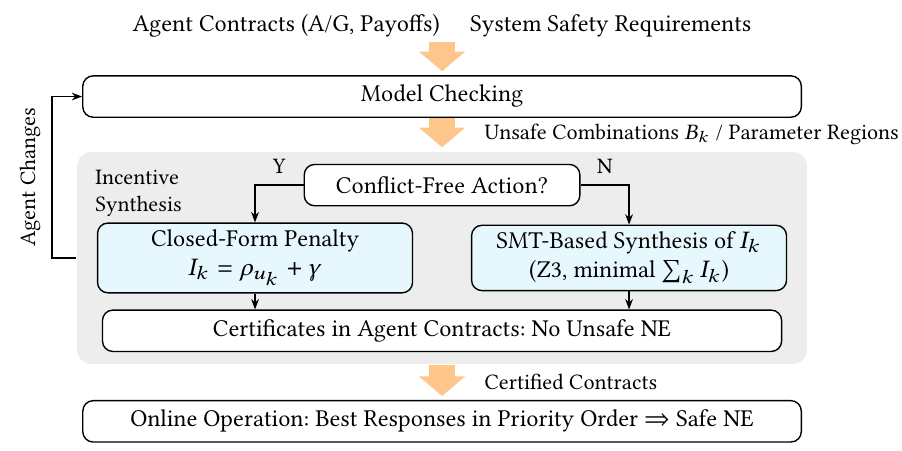
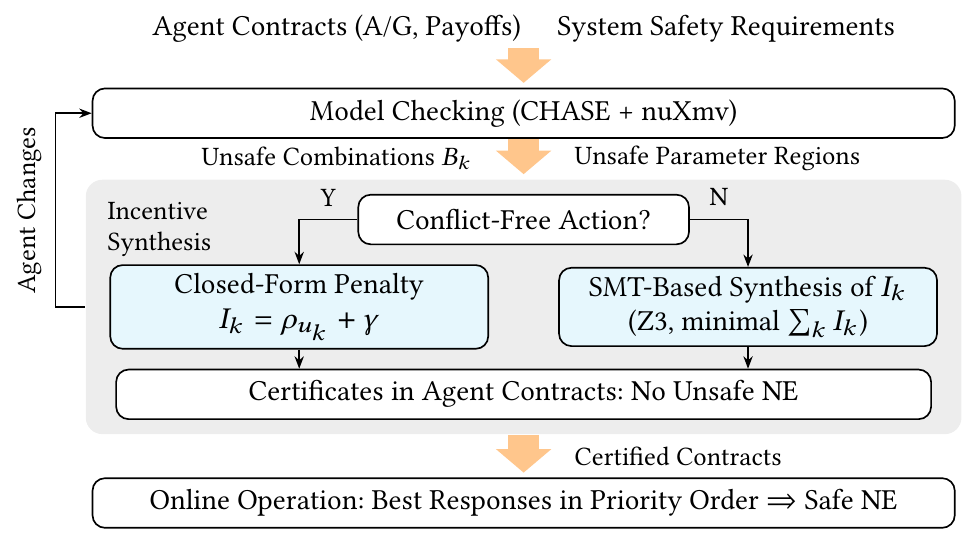
Current abstract and flowchart; remove the Min TTR row

Changed region(s): [[0.0621, 0.031, 1.0, 0.9933], [0.0, 0.2173, 0.0621, 0.5588]]

diff --git a/index.html b/index.html
@@ -83,14 +83,15 @@
             admissible behaviours a self-interested agent will choose when it interacts with other agents.
             We propose <em>incentive-compatible A/G contracts</em>, which extend A/G contracts in linear
             temporal logic (LTL) with a payoff for each agent and an enforceable penalty for unsafe joint
-            behaviour. Decisions are finitely many controllers, such as maneuvers or entry times on a fine time
-            grid. Model checking identifies the unsafe combinations of decisions, parameter synthesis turns them
-            into unsafe conditions that the agents evaluate online, and SMT solving computes the penalties
-            together with <em>certificates</em> that exclude each unsafe combination from the Nash equilibria.
-            Each certificate is attached to the contract of an agent that gains at least a fixed margin by
-            changing its own decision. The certificates guarantee that every Nash equilibrium of the composed
-            system is safe, and they remain valid when an agent is replaced by one whose contract refines its
-            own. Agents can also be added and removed while the existing certificates are reused.
+            behaviour. Model checking identifies the unsafe combinations of decisions, and parameter synthesis
+            generates the unsafe parameter regions that the agents evaluate online. The penalties follow from a
+            closed form when an agent has a conflict-free action and from SMT solving otherwise, together with
+            <em>certificates</em> that exclude each unsafe combination from the Nash equilibria. Each certificate
+            is attached to the contract of an agent that gains at least a fixed margin by changing its own
+            decision. If every unsafe combination has a certificate, every Nash equilibrium of the composed system
+            is safe, and the certificates remain valid when an agent is replaced by one whose contract refines its
+            own or when agents are added or removed. We evaluate the approach on highway on-ramp merging and an
+            unmanned aerial vehicle (UAV) corridor.
           </p>
         </div>
       </div>
@@ -166,14 +167,13 @@
     <table class="res">
       <tr><th rowspan="2">100 scenarios &times; 300 s</th><th colspan="4">without safety filter</th><th colspan="2">with the filter of Low et al.</th></tr>
       <tr><th>runs with LoS</th><th>runs with a taxi out</th><th>success</th><th>delay [s]</th><th>success</th><th>delay [s]</th></tr>
-      <tr><td>Min TTR</td><td>100</td><td>0</td><td>0%</td><td>0.0</td><td>32%</td><td>32.4&dagger;</td></tr>
       <tr><td>Non-cooperative composition</td><td>100</td><td>100</td><td>0%</td><td>60.6&dagger;</td><td>0%</td><td>83.6&dagger;</td></tr>
       <tr><td>TTR priority, 10% selfish</td><td>83</td><td>0</td><td>17%</td><td>12.6</td><td>80%</td><td>18.1</td></tr>
       <tr><td>TTR priority, 30% selfish</td><td>94</td><td>0</td><td>6%</td><td>9.8</td><td>69%</td><td>21.9&dagger;</td></tr>
       <tr><td>TTR priority, 100% selfish</td><td>100</td><td>0</td><td>0%</td><td>0.0</td><td>32%</td><td>32.4&dagger;</td></tr>
       <tr><td class="ours">Ours (incentives, all taxis selfish)</td><td class="ours">57</td><td class="ours">0</td><td class="ours">43%</td><td class="ours">9.5</td><td class="ours">88%</td><td class="ours">16.3&dagger;</td></tr>
     </table>
-    <p class="note-line">LoS: loss of separation, two taxis closer than 500&nbsp;m. Out: a taxi that does not enter within 300&nbsp;s. Success: share of runs without LoS in which every taxi enters. Delay: mean entry delay over the earliest possible entry. &dagger;: over the taxis that enter. With the filter, the taxis also track their paths with the vehicle dynamics of Low et al.</p>
+    <p class="note-line">LoS: loss of separation, two taxis closer than 500&nbsp;m. Out: a taxi that does not enter within 300&nbsp;s. Success: share of runs without LoS in which every taxi enters. Delay: mean entry time minus the initial time to reach (TTR). &dagger;: over the taxis that enter. With the filter, the taxis also track their paths with the vehicle dynamics of Low et al.</p>
   </div>
 </section>
 
